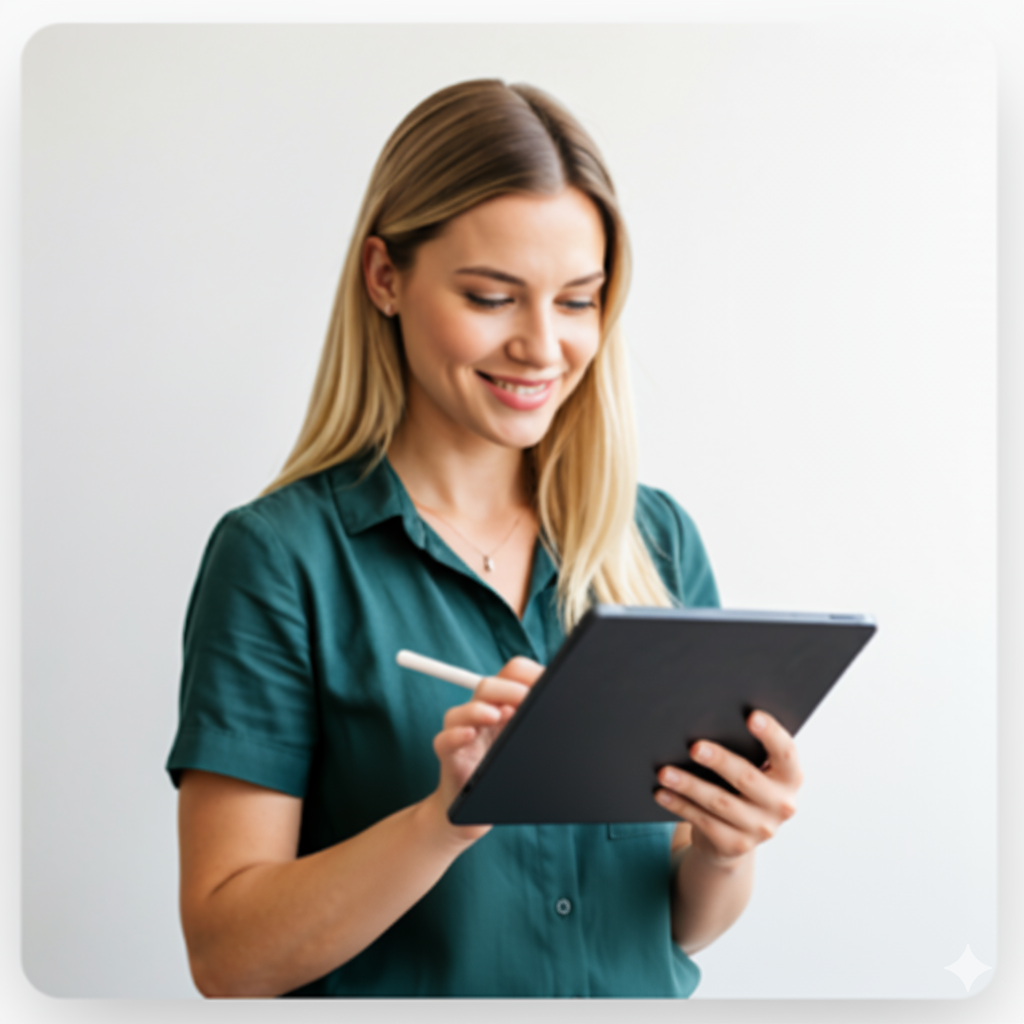
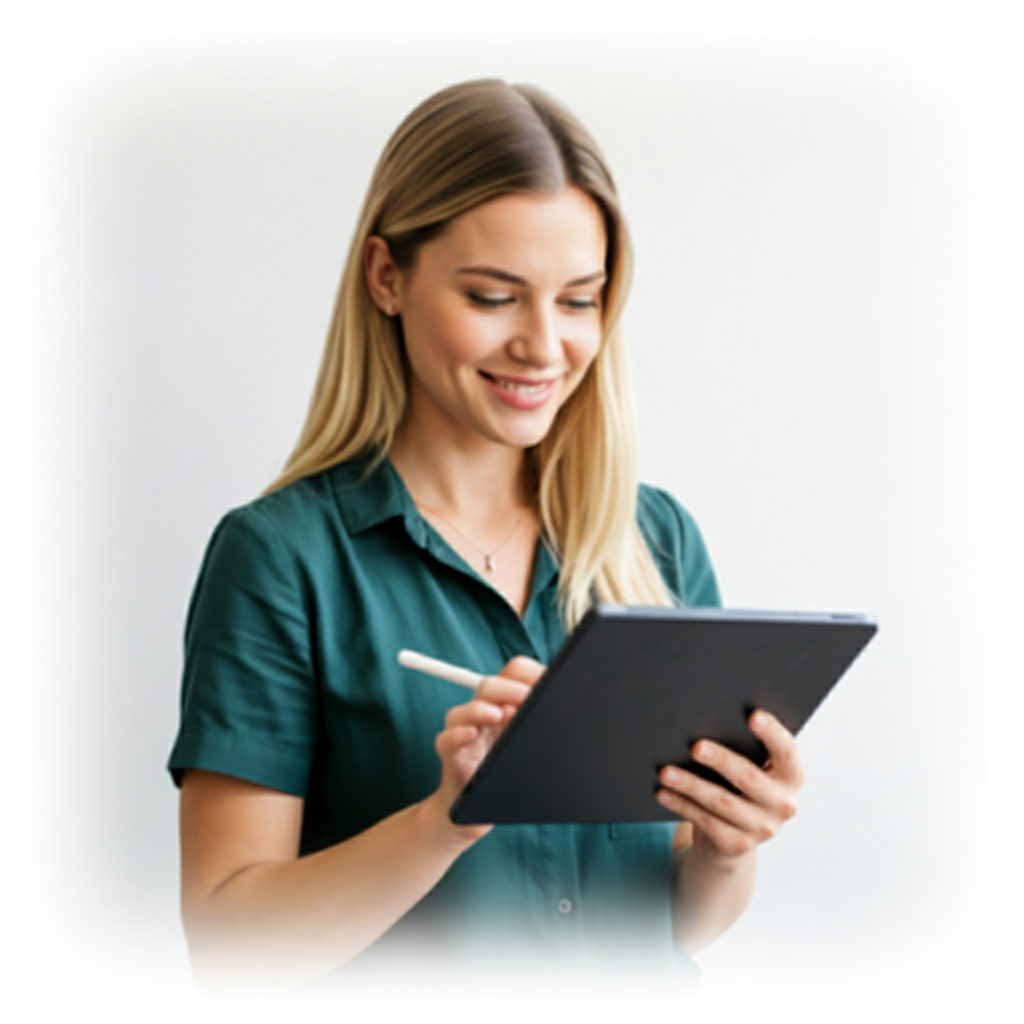
Mejor todo

diff --git a/src/app/[locale]/HomePageClient.tsx b/src/app/[locale]/HomePageClient.tsx
@@ -458,8 +458,8 @@ export default function HomePageClient({
               className="absolute -bottom-10 left-0 hidden h-48 w-48 rounded-full bg-gradient-to-tr from-emerald-200/50 via-emerald-100/30 to-transparent blur-3xl lg:block"
               aria-hidden="true"
             />
-            <div className="relative rounded-[32px] border border-white/50 bg-white/70 p-4 pb-36 md:pb-12 shadow-xl shadow-blue-200/30 backdrop-blur">
-              <div className="overflow-hidden rounded-[24px]">
+            <div className="relative rounded-[32px] border border-white/50 bg-white/80 px-2 sm:px-3 md:px-5 pt-0 sm:pt-1 md:pt-2 pb-24 sm:pb-28 md:pb-14 lg:pb-12 shadow-xl shadow-blue-200/30 backdrop-blur">
+              <div className="relative overflow-hidden rounded-[24px]">
                 <AutoImage
                   src={
                     locale === 'es'
@@ -471,9 +471,11 @@ export default function HomePageClient({
                   })}
                   width={1536}
                   height={1024}
-                  className="h-full w-full object-cover object-top md:object-center"
+                  className="h-full w-full object-cover object-top md:object-center scale-[1.12] origin-center -translate-y-[12%] md:-translate-y-[8%]"
                   priority
                 />
+                <div className="pointer-events-none absolute inset-0 rounded-[24px] bg-[radial-gradient(circle_at_center,rgba(255,255,255,0)_70%,rgba(255,255,255,0.7)_100%)] mix-blend-screen opacity-80 transition-opacity duration-500" aria-hidden="true" />
+                <div className="pointer-events-none absolute inset-0 rounded-[24px] ring-1 ring-white/60" aria-hidden="true" />
               </div>
               <div className="absolute -bottom-16 left-6 right-6 mx-auto max-w-[calc(100%-3rem)] rounded-2xl bg-white/90 p-5 pb-8 shadow-lg shadow-slate-200/80 backdrop-blur md:left-12 md:right-12 md:bottom-0 md:p-6">
                 <div className="mb-3 flex items-center gap-3">
@@ -538,3 +540,4 @@ export default function HomePageClient({
     </>
   );
 }
+

diff --git a/src/app/[locale]/(legal)/docs/[docId]/DocPageClient.tsx b/src/app/[locale]/(legal)/docs/[docId]/DocPageClient.tsx
@@ -329,7 +329,7 @@ export default function DocPageClient({
 
   return (
     <TooltipProvider>
-      <main className="container mx-auto px-4 pb-8 sm:px-6 lg:px-8">
+      <main className="container mx-auto px-4 pb-8 pt-12 sm:pt-8 md:pt-0 sm:px-6 lg:px-8">
         <nav
           className="hidden text-sm mt-4 mb-6 space-x-1 text-muted-foreground md:flex"
           aria-label="Breadcrumb"
